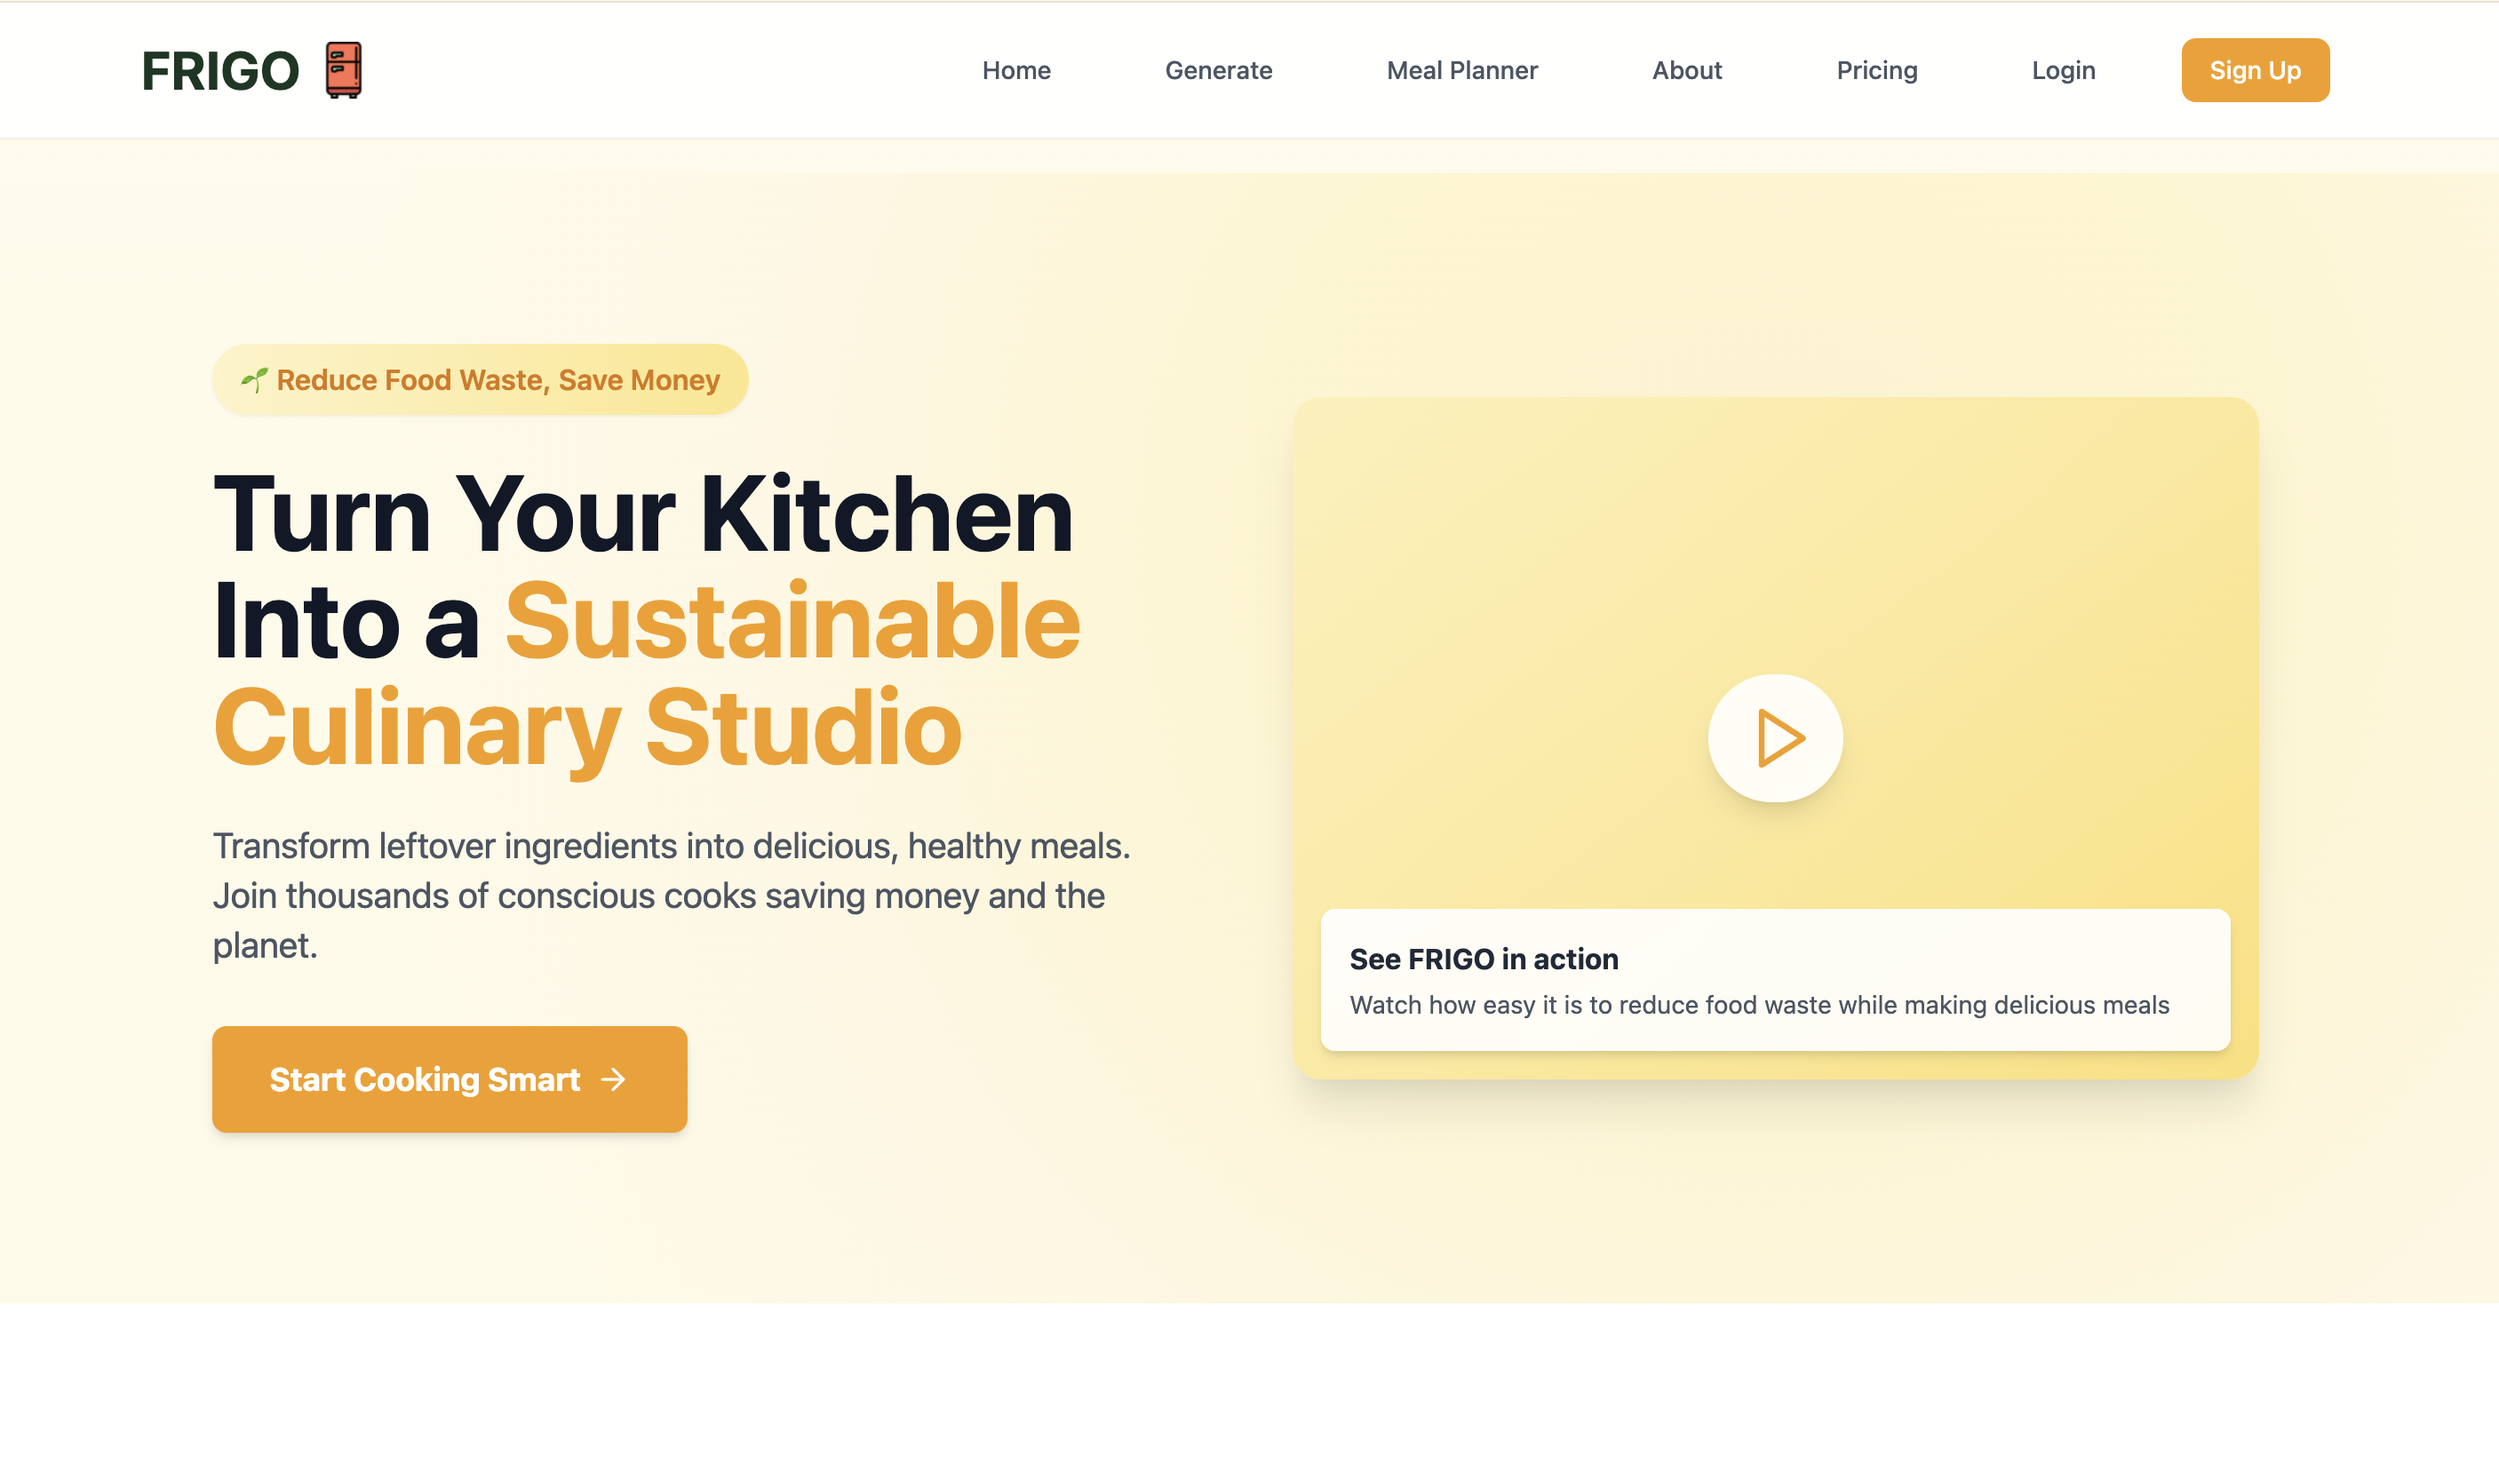
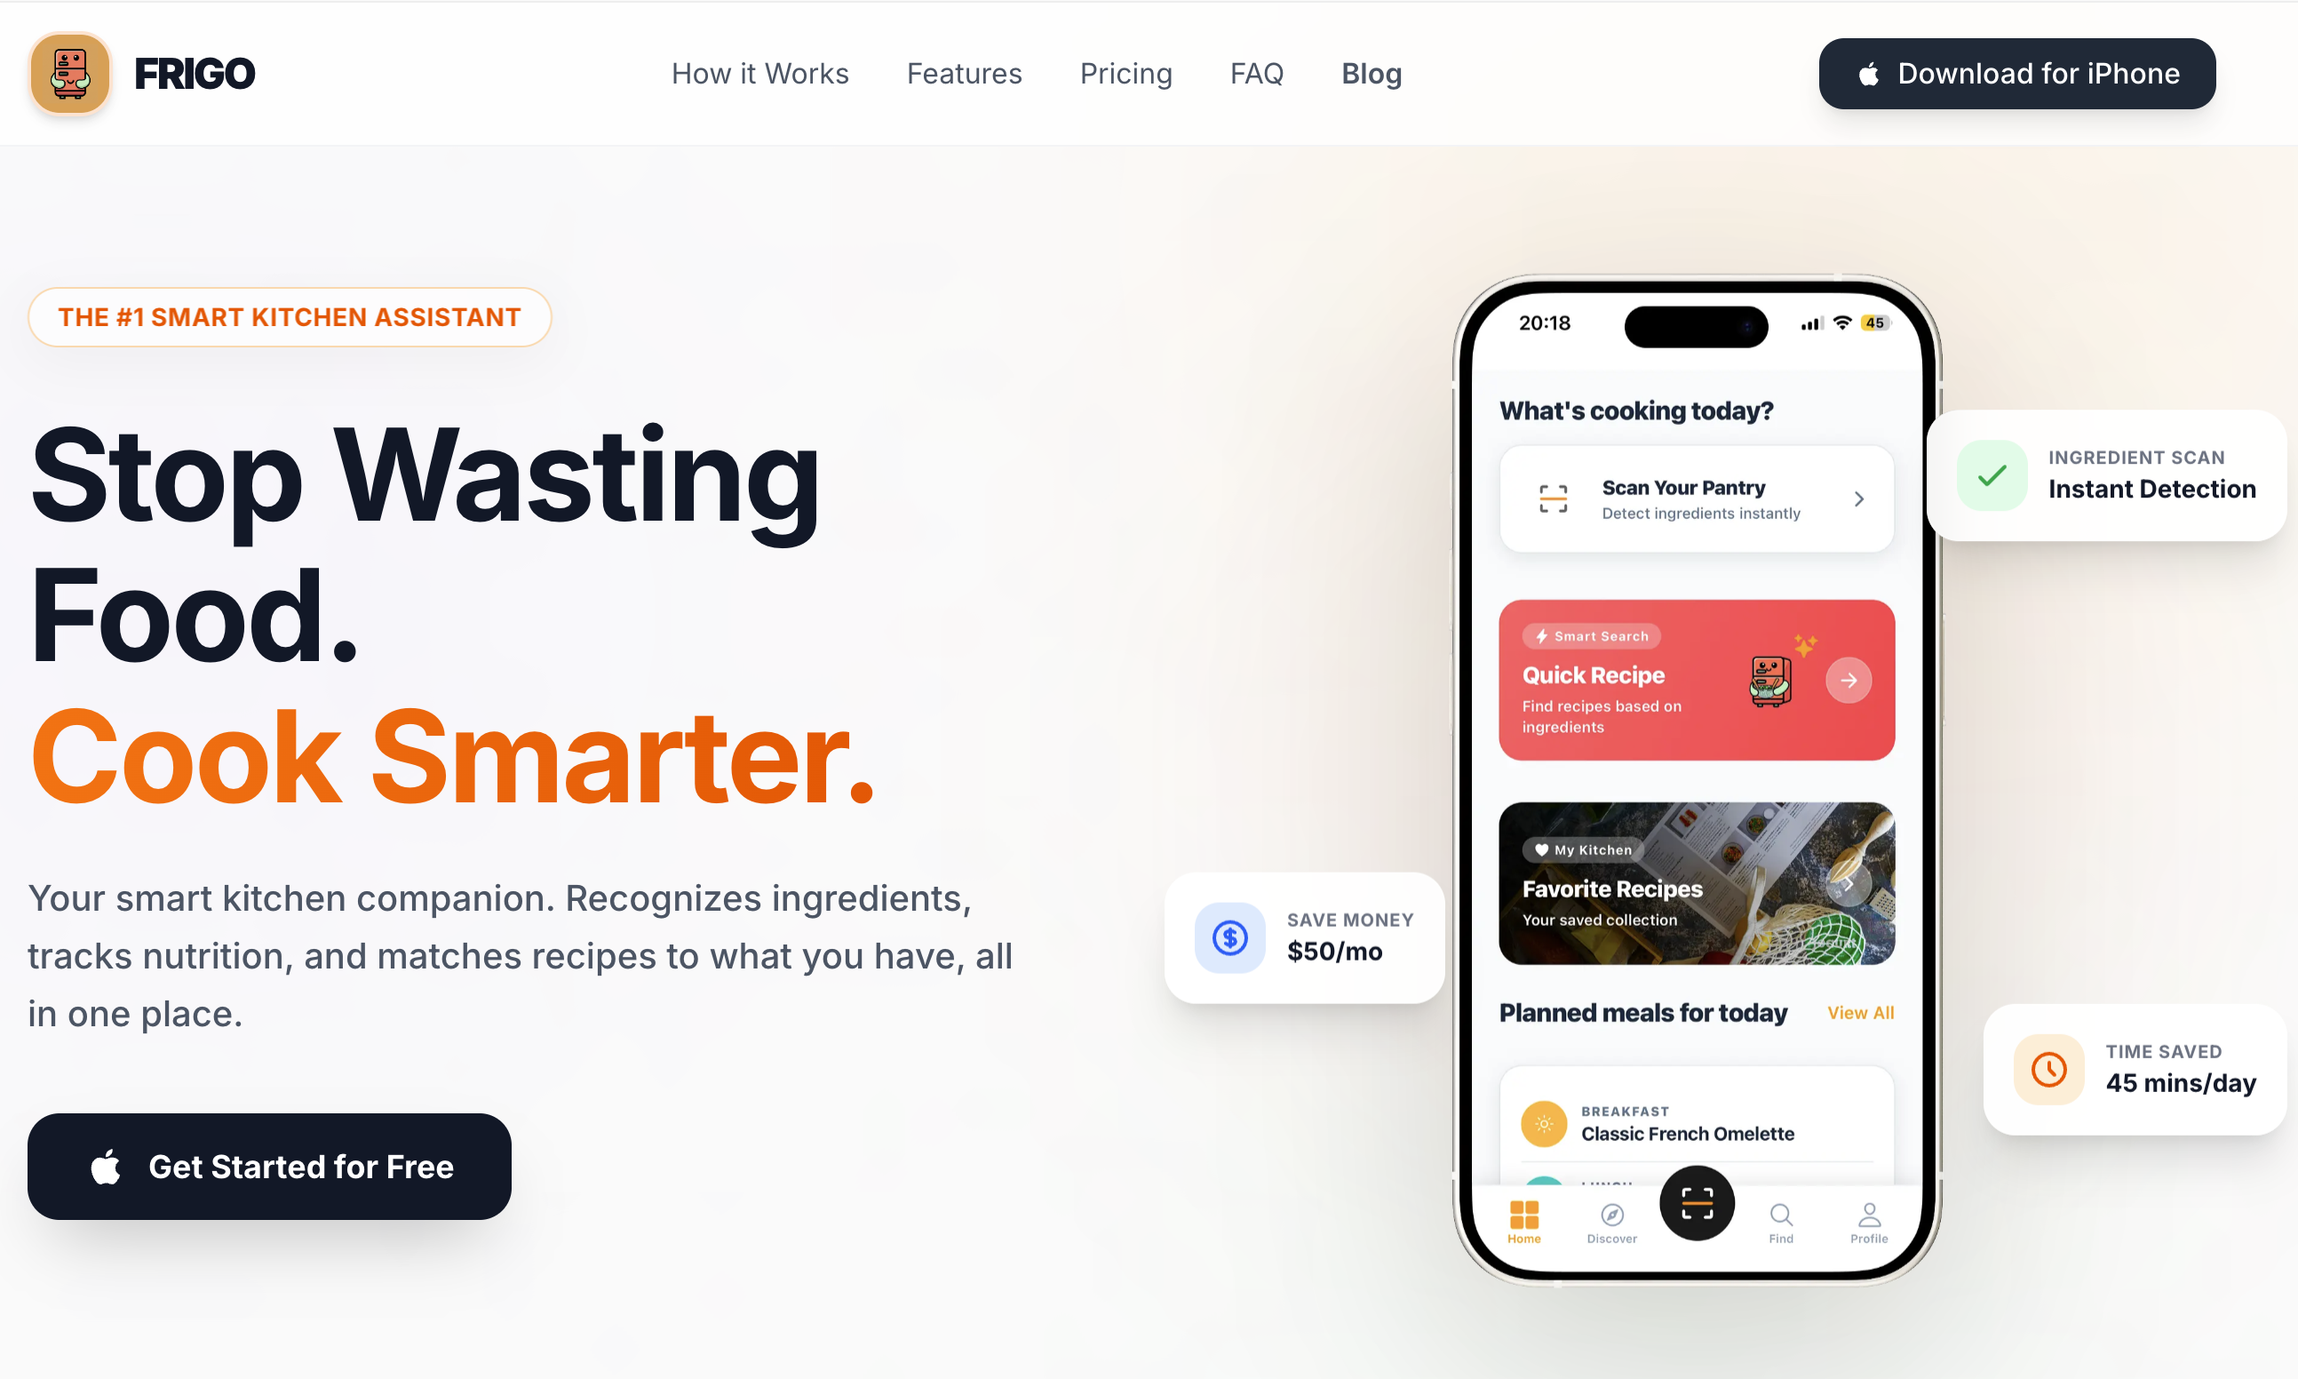
fixes

diff --git a/src/components/Projects.jsx b/src/components/Projects.jsx
@@ -260,13 +260,15 @@ const ProjectImage = styled.div`
   border-radius: 16px;
   box-shadow: 0 15px 30px rgba(0, 0, 0, 0.1);
   width: 100%;
+  background: var(--color-neutral);
   
   img {
     width: 100%;
     height: 100%;
-    object-fit: cover;
+    object-fit: ${props => props.$fit || 'cover'};
     border-radius: 16px;
     display: block;
+    background: var(--color-neutral);
   }
   
   &::after {
@@ -294,7 +296,7 @@ const ProjectImage = styled.div`
 const CategoryTag = styled.div`
   position: absolute;
   top: 20px;
-  left: 20px;
+  right: 20px;
   background: rgba(255, 255, 255, 0.95);
   color: #000;
   padding: 0.7rem 1.4rem;
@@ -320,18 +322,15 @@ const CategoryTag = styled.div`
     box-shadow: 0 8px 20px rgba(0, 0, 0, 0.12);
   }
   
-  ${ProjectRow}:nth-child(even) & {
-    left: auto;
-    right: 20px;
-  }
+
   
   @media (max-width: 992px) {
-    left: 20px;
-    right: auto;
+    right: 20px;
+    left: auto;
     
     ${ProjectRow}:nth-child(even) & {
-      left: 20px;
-      right: auto;
+      right: 20px;
+      left: auto;
     }
   }
   
@@ -503,7 +502,8 @@ const projectsData = [
     },
     technologies: ["Svelte", "Node.js", "Express", "i18n", "GSAP"],
     features: ["Custom Design", "Responsive Interface", "Contact Form", "SEO Optimization"],
-    demoUrl: "https://buviptur.com"
+    demoUrl: "https://buviptur.com",
+    fit: "cover"
   },
   {
     id: 2,
@@ -532,36 +532,38 @@ const projectsData = [
     },
     technologies: ["Svelte", "Node.js", "Google Sheets", "i18n", "Google Calendar"],
     features: ["Real-time Booking", "Service Management", "Customer Dashboard", "Admin Panel"],
-    demoUrl: "https://zima-auto.com"
+    demoUrl: "https://zima-auto.com",
+    fit: "cover"
   },
   {
     id: 3,
     title: {
-      en: "Frigo Recipe Generator",
-      hu: "Frigo Receptgenerátor"
+      en: "Frigo Smart Kitchen Assistant",
+      hu: "Frigo Okos Konyhai Asszisztens"
     },
     description: {
-      en: "Innovative web application that generates personalized recipes based on available ingredients, helping users reduce food waste and discover new dishes.",
-      hu: "Innovatív webalkalmazás, amely személyre szabott recepteket generál a rendelkezésre álló hozzávalók alapján, segítve a felhasználókat az élelmiszer-pazarlás csökkentésében és új ételek felfedezésében."
+      en: "Smart mobile application designed to minimize food waste and simplify meal planning using advanced computer vision to identify ingredients and match them with over 10,000 verified recipes.",
+      hu: "Intelligens mobilalkalmazás, amelyet az élelmiszerpazarlás minimalizálására és az étkezések tervezésének egyszerűsítésére fejlesztettek, fejlett számítógépes látással azonosítva az alapanyagokat."
     },
     image: `${process.env.PUBLIC_URL}/frigo.png`,
     category: "webapp",
     icon: <FaUtensils />,
     categoryName: {
-      en: "Web Application",
-      hu: "Webalkalmazás"
+      en: "Mobile Application",
+      hu: "Mobilalkalmazás"
     },
     problem: {
-      en: "Helping users decide what to cook with ingredients they already have at home, reducing food waste and inspiring culinary creativity.",
-      hu: "Segítség a felhasználóknak abban, hogy mit főzzenek az otthon már meglévő hozzávalókból, csökkentve az élelmiszer-pazarlást és inspirálva a konyhai kreativitást."
+      en: "Reducing household food waste and solving the daily 'what to cook' dilemma while helping users save time and money on groceries.",
+      hu: "A háztartási élelmiszerpazarlás csökkentése és a napi 'mit főzzek' dilemma megoldása, miközben időt és pénzt takarít meg a felhasználóknak."
     },
     solution: {
-      en: "Created an intelligent recipe suggestion system that matches available ingredients with possible recipes and offers premium subscription options.",
-      hu: "Intelligens receptajánló rendszer létrehozása, amely összehangolja a rendelkezésre álló hozzávalókat a lehetséges receptekkel, és prémium előfizetési lehetőségeket kínál."
+      en: "Developed an intelligent ecosystem with smart vision technology, automated shopping lists, and detailed nutrition tracking to empower sustainable and healthy cooking habits.",
+      hu: "Intelligens ökoszisztéma fejlesztése Smart Vision technológiával, automatizált bevásárlólistákkal és részletes tápanyagkövetéssel a fenntartható főzési szokásokért."
     },
-    technologies: ["Next.js", "Firebase", "Stripe", "Recipe API", "Auth0"],
-    features: ["Ingredient Scanning", "Recipe Filtering", "Favorites Collection", "Premium Subscription"],
-    demoUrl: "https://frigo-app.com"
+    technologies: ["React Native", "Swift", "Expo", "TypeScript"],
+    features: ["Smart Vision Technology", "Recipe Matching", "Nutrition Tracking", "Smart Shopping List"],
+    demoUrl: "https://frigo-app.com",
+    fit: "contain"
   }
 ];
 
@@ -570,7 +572,7 @@ const categories = [
   { id: "all", icon: <FaGlobe />, name: { en: "All Projects", hu: "Összes Projekt" } },
   { id: "tourism", icon: <FaPlane />, name: { en: "Tourism", hu: "Turizmus" } },
   { id: "automotive", icon: <FaCar />, name: { en: "Automotive", hu: "Autós" } },
-  { id: "webapp", icon: <FaCodeBranch />, name: { en: "Web Applications", hu: "Webalkalmazások" } }
+  { id: "webapp", icon: <FaCodeBranch />, name: { en: "Mobile Applications", hu: "Mobilalkalmazások" } }
 ];
 
 const Projects = () => {
@@ -582,25 +584,25 @@ const Projects = () => {
     triggerOnce: true,
     threshold: 0.1
   });
-  
+
   // Filter projects based on selected category
-  const filteredProjects = filter === "all" 
-    ? projectsData 
+  const filteredProjects = filter === "all"
+    ? projectsData
     : projectsData.filter(project => project.category === filter);
-  
+
   // Mobile swipe handlers
   const handleSwipeLeft = () => {
     if (currentMobileIndex < filteredProjects.length - 1) {
       setCurrentMobileIndex(currentMobileIndex + 1);
     }
   };
-  
+
   const handleSwipeRight = () => {
     if (currentMobileIndex > 0) {
       setCurrentMobileIndex(currentMobileIndex - 1);
     }
   };
-  
+
   const swipeHandlers = useSwipeable({
     onSwipedLeft: handleSwipeLeft,
     onSwipedRight: handleSwipeRight,
@@ -608,12 +610,12 @@ const Projects = () => {
     trackTouch: true,
     preventScrollOnSwipe: true,
   });
-  
+
   // Reset mobile index when filter changes
   React.useEffect(() => {
     setCurrentMobileIndex(0);
   }, [filter]);
-  
+
   return (
     <ProjectsSection id="projects" ref={ref}>
       <ProjectsContainer>
@@ -623,7 +625,7 @@ const Projects = () => {
         <SectionSubtitle>
           {translations.projects.subtitle[language]}
         </SectionSubtitle>
-        
+
         <FilterContainer>
           {categories.map(category => (
             <FilterButton
@@ -635,7 +637,7 @@ const Projects = () => {
             </FilterButton>
           ))}
         </FilterContainer>
-        
+
         {/* Desktop Layout */}
         <ProjectsWrapper className="desktop-projects">
           {filteredProjects.map((project, index) => (
@@ -650,24 +652,24 @@ const Projects = () => {
                 <CategoryTag>
                   {project.icon} {project.categoryName[language]}
                 </CategoryTag>
-                <ProjectImage>
+                <ProjectImage $fit={project.fit}>
                   <img src={project.image} alt={project.title[language]} />
                 </ProjectImage>
               </ProjectImageContainer>
-              
+
               <ProjectContent>
                 <ProjectTitle>{project.title[language]}</ProjectTitle>
                 <ProjectDescription>{project.description[language]}</ProjectDescription>
-                
+
                 <ProjectChallenge theme={theme}>
                   <h4><FaCalendarAlt /> {translations.projects.challengeSolutionTitle[language]}</h4>
                   <p><strong>{translations.projects.problemLabel[language]}:</strong> {project.problem[language]}</p>
                   <p><strong>{translations.projects.solutionLabel[language]}:</strong> {project.solution[language]}</p>
                 </ProjectChallenge>
-                
+
                 <TechnologiesList>
                   {project.technologies.map((tech, index) => (
-                    <Technology 
+                    <Technology
                       key={index}
                       color={index % 3 === 0 ? 'accent1' : index % 3 === 1 ? 'accent2' : 'accent3'}
                     >
@@ -675,10 +677,10 @@ const Projects = () => {
                     </Technology>
                   ))}
                 </TechnologiesList>
-                
-                <ViewButton 
-                  href={project.demoUrl} 
-                  target="_blank" 
+
+                <ViewButton
+                  href={project.demoUrl}
+                  target="_blank"
                   rel="noopener noreferrer"
                   whileHover={{ scale: 1.03 }}
                   whileTap={{ scale: 0.97 }}
@@ -689,15 +691,15 @@ const Projects = () => {
             </ProjectRow>
           ))}
         </ProjectsWrapper>
-        
+
         {/* Mobile Swipe Layout */}
         <MobileSwipeContainer {...swipeHandlers}>
-          <MobileProjectsSlider 
+          <MobileProjectsSlider
             $currentIndex={currentMobileIndex}
             $totalProjects={filteredProjects.length}
           >
             {filteredProjects.map((project, index) => (
-              <MobileProjectSlide 
+              <MobileProjectSlide
                 key={project.id}
                 $totalProjects={filteredProjects.length}
               >
@@ -706,24 +708,24 @@ const Projects = () => {
                     <CategoryTag>
                       {project.icon} {project.categoryName[language]}
                     </CategoryTag>
-                    <ProjectImage>
+                    <ProjectImage $fit={project.fit}>
                       <img src={project.image} alt={project.title[language]} />
                     </ProjectImage>
                   </ProjectImageContainer>
-                  
+
                   <ProjectContent>
                     <ProjectTitle>{project.title[language]}</ProjectTitle>
                     <ProjectDescription>{project.description[language]}</ProjectDescription>
-                    
+
                     <ProjectChallenge theme={theme}>
                       <h4><FaCalendarAlt /> {translations.projects.challengeSolutionTitle[language]}</h4>
                       <p><strong>{translations.projects.problemLabel[language]}:</strong> {project.problem[language]}</p>
                       <p><strong>{translations.projects.solutionLabel[language]}:</strong> {project.solution[language]}</p>
                     </ProjectChallenge>
-                    
+
                     <TechnologiesList>
                       {project.technologies.map((tech, index) => (
-                        <Technology 
+                        <Technology
                           key={index}
                           color={index % 3 === 0 ? 'accent1' : index % 3 === 1 ? 'accent2' : 'accent3'}
                         >
@@ -731,10 +733,10 @@ const Projects = () => {
                         </Technology>
                       ))}
                     </TechnologiesList>
-                    
-                    <ViewButton 
-                      href={project.demoUrl} 
-                      target="_blank" 
+
+                    <ViewButton
+                      href={project.demoUrl}
+                      target="_blank"
                       rel="noopener noreferrer"
                       whileHover={{ scale: 1.03 }}
                       whileTap={{ scale: 0.97 }}
@@ -746,15 +748,15 @@ const Projects = () => {
               </MobileProjectSlide>
             ))}
           </MobileProjectsSlider>
-          
+
           <MobileNavigation>
-            <MobileNavButton 
+            <MobileNavButton
               onClick={handleSwipeRight}
               disabled={currentMobileIndex === 0}
             >
               <FaChevronLeft />
             </MobileNavButton>
-            
+
             <MobileDots>
               {filteredProjects.map((_, index) => (
                 <MobileDot
@@ -764,8 +766,8 @@ const Projects = () => {
                 />
               ))}
             </MobileDots>
-            
-            <MobileNavButton 
+
+            <MobileNavButton
               onClick={handleSwipeLeft}
               disabled={currentMobileIndex === filteredProjects.length - 1}
             >

diff --git a/src/data/blogData.js b/src/data/blogData.js
@@ -228,8 +228,8 @@ export const blogPosts = [
       
       <h2>2025-ös trendek, amik befolyásolhatják az árakat</h2>
       
-      <h3>Mesterséges intelligencia integráció</h3>
-      <p>AI-alapú chatbottok és személyre szabott tartalom növelheti a fejlesztési költségeket, de jelentősen javíthatja a felhasználói élményt.</p>
+      <h3>Intelligens technológiák integrációja</h3>
+      <p>Smart megoldások, chatbottok és személyre szabott tartalom növelheti a fejlesztési költségeket, de jelentősen javíthatja a felhasználói élményt.</p>
       
       <h3>Progressive Web App (PWA) funkciók</h3>
       <p>Mobilalkalmazás-szerű élmény weboldalon belül, ami növelheti a fejlesztési költségeket, de jelentősen javíthatja a felhasználói engagementet.</p>
